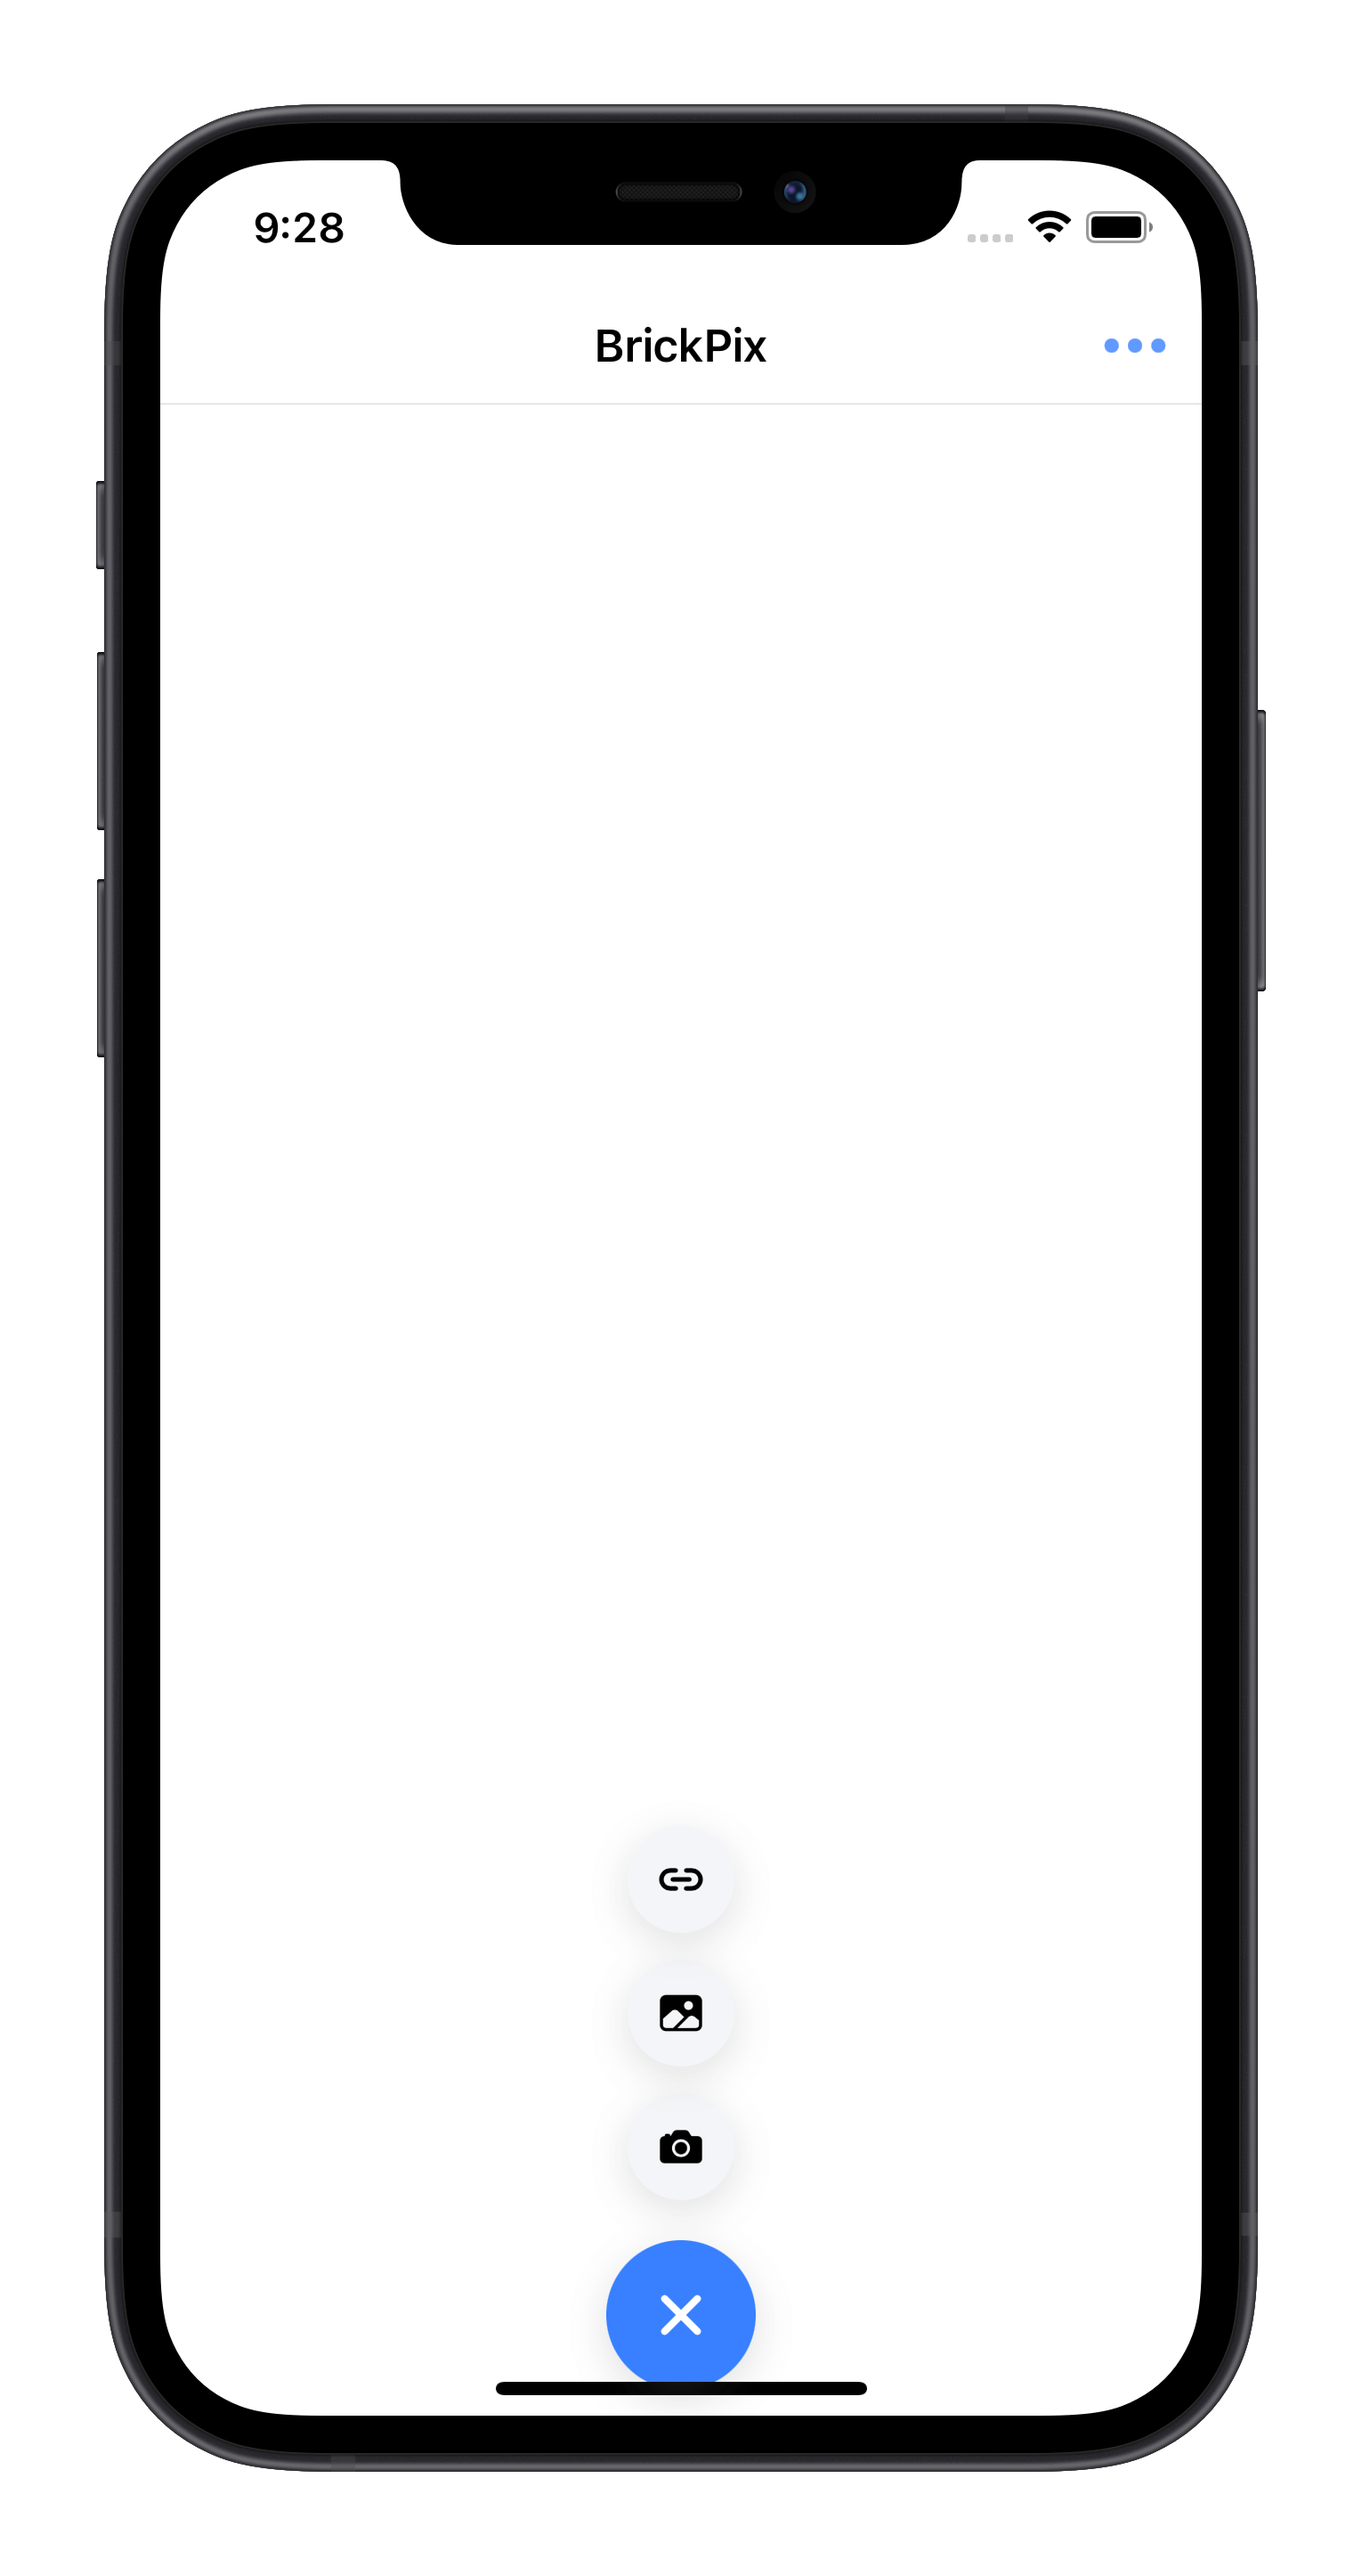
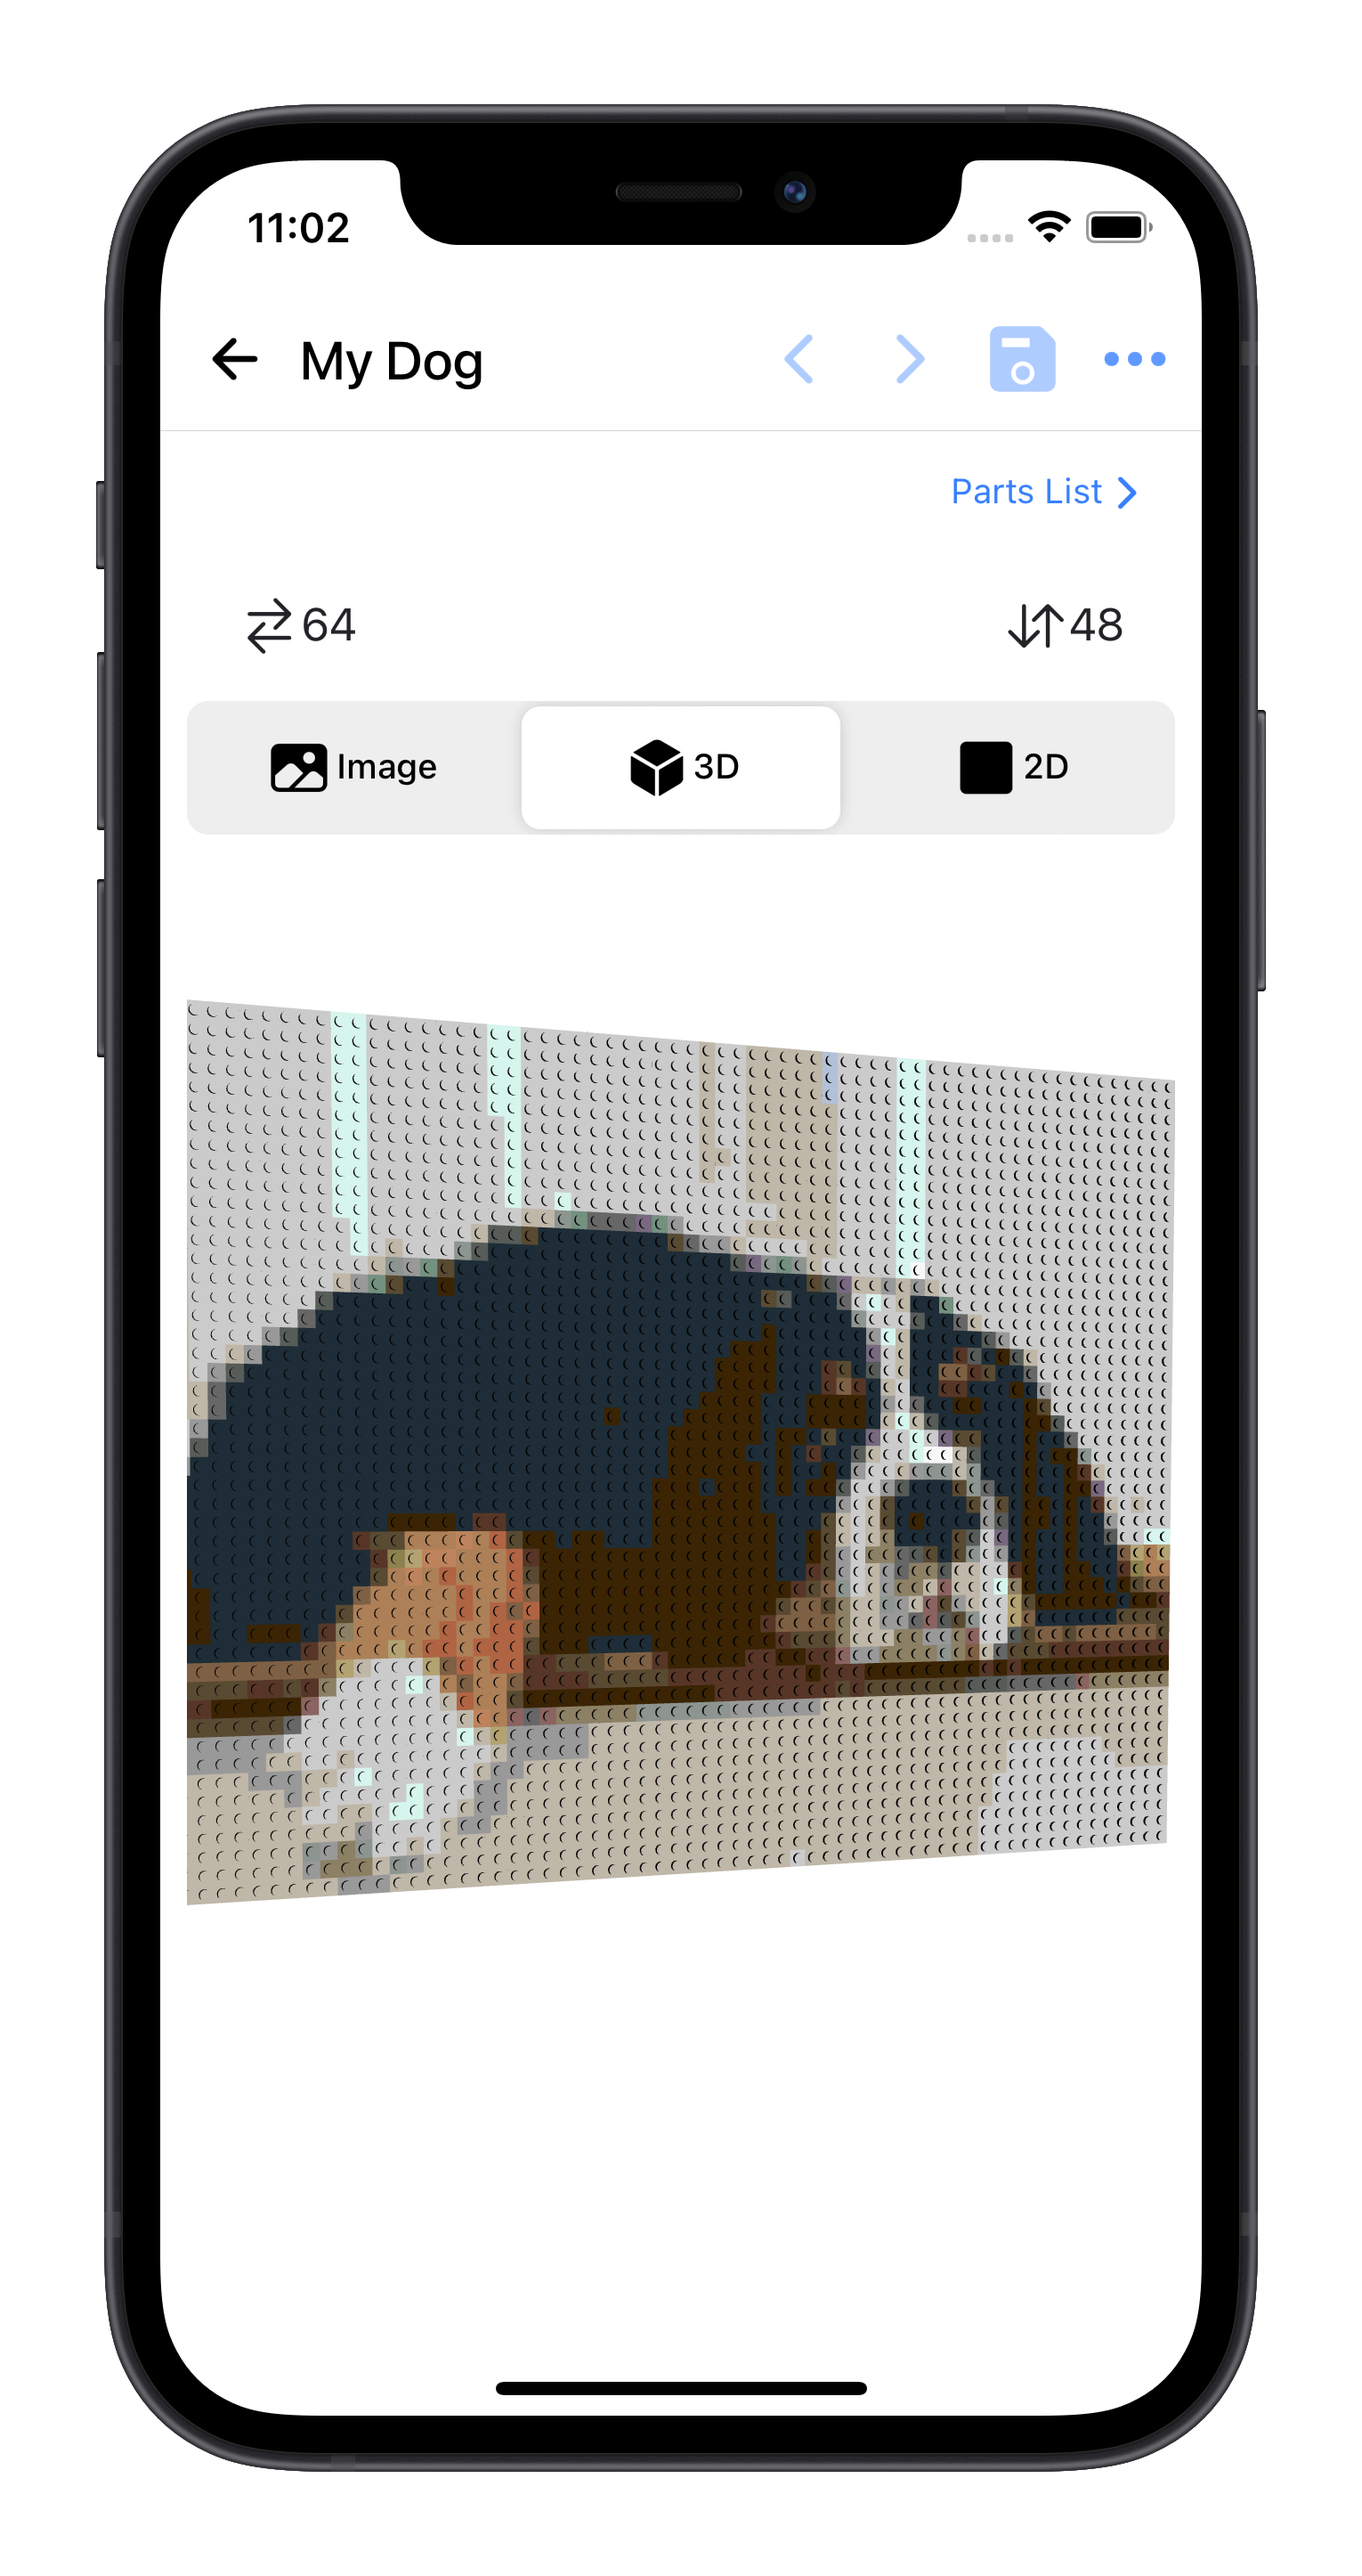
Update customization step and example image
Modified the customization step in about.html to include size selection along with colors. Updated brickpix-example.png to reflect these changes.

diff --git a/about.html b/about.html
@@ -68,8 +68,8 @@
 
                 <div class="step">
                     <div class="step-number">2</div>
-                    <h3>Customize Colors</h3>
-                    <p>Select which Lego colors you want to use for your mosaic</p>
+                    <h3>Customize Size and Colors</h3>
+                    <p>Select which Lego Size and colors you want to use for your mosaic</p>
                 </div>
 
                 <div class="step">
